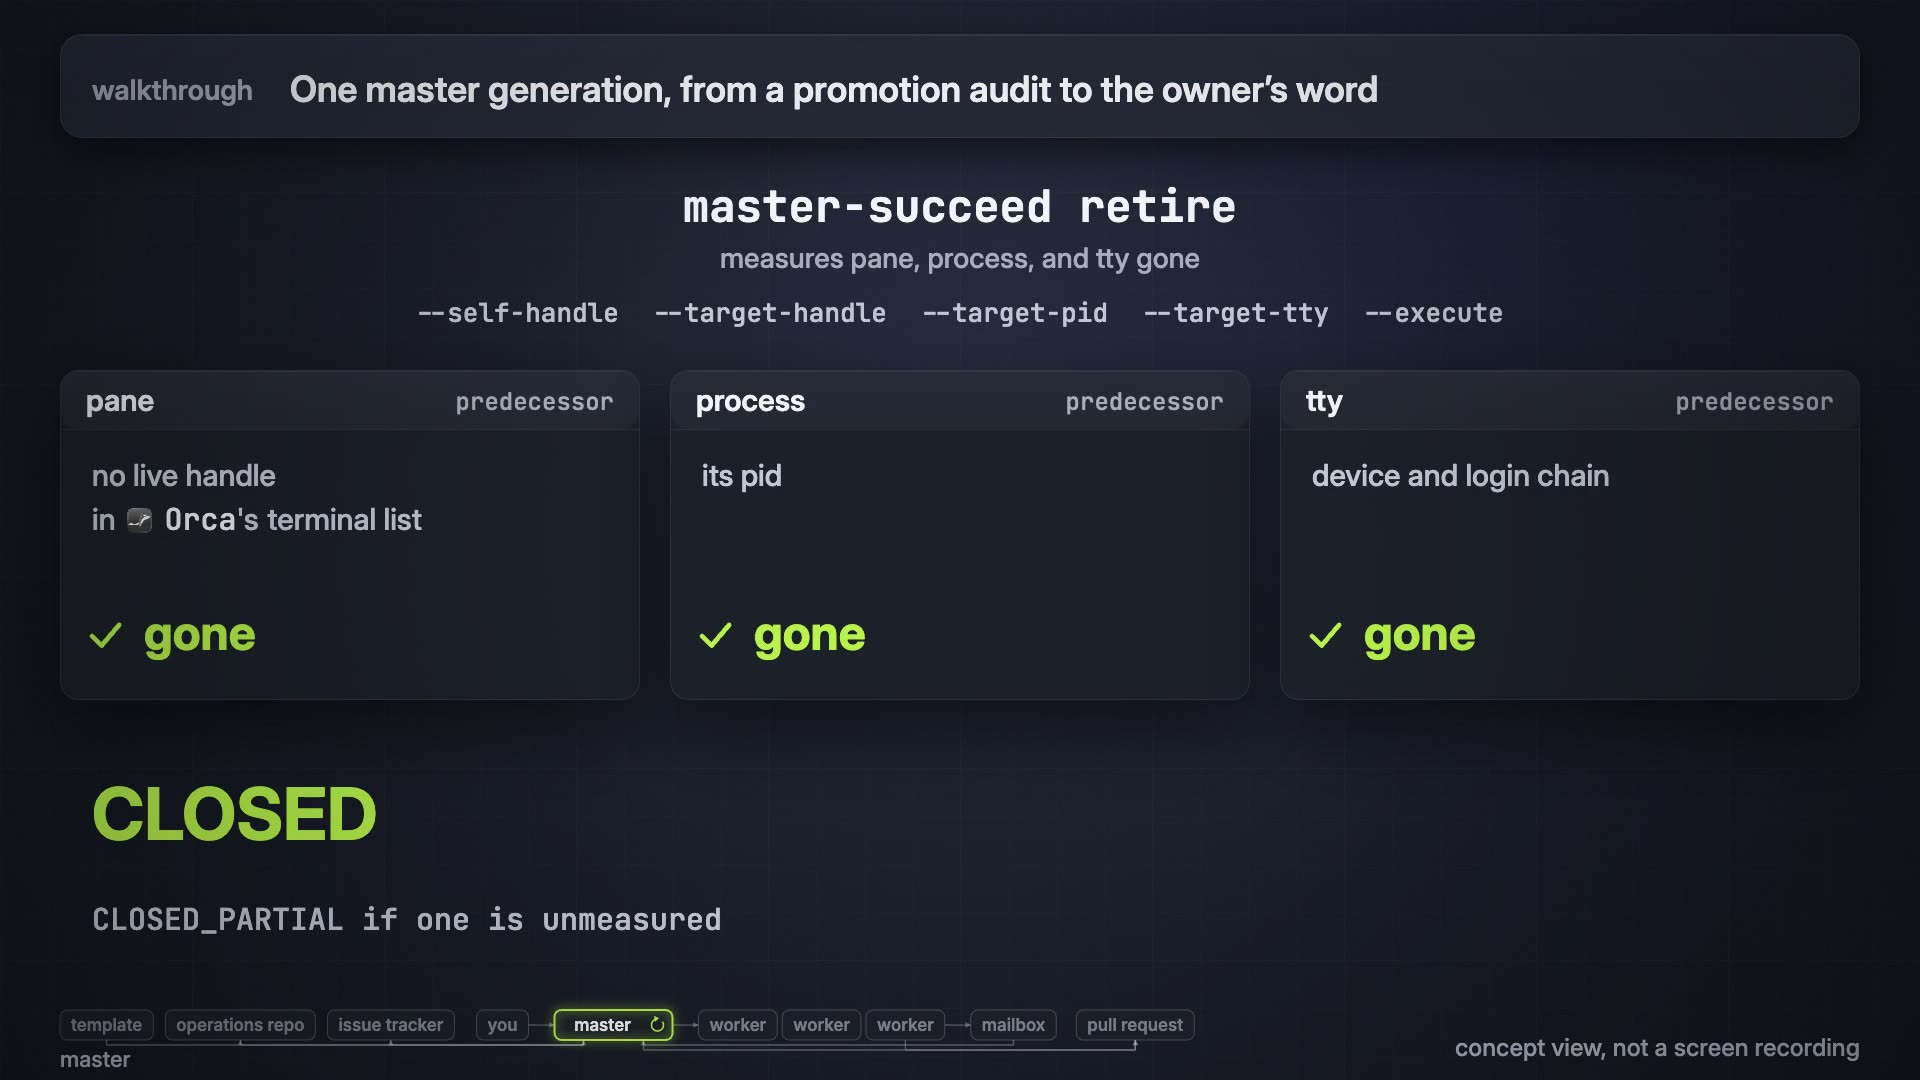
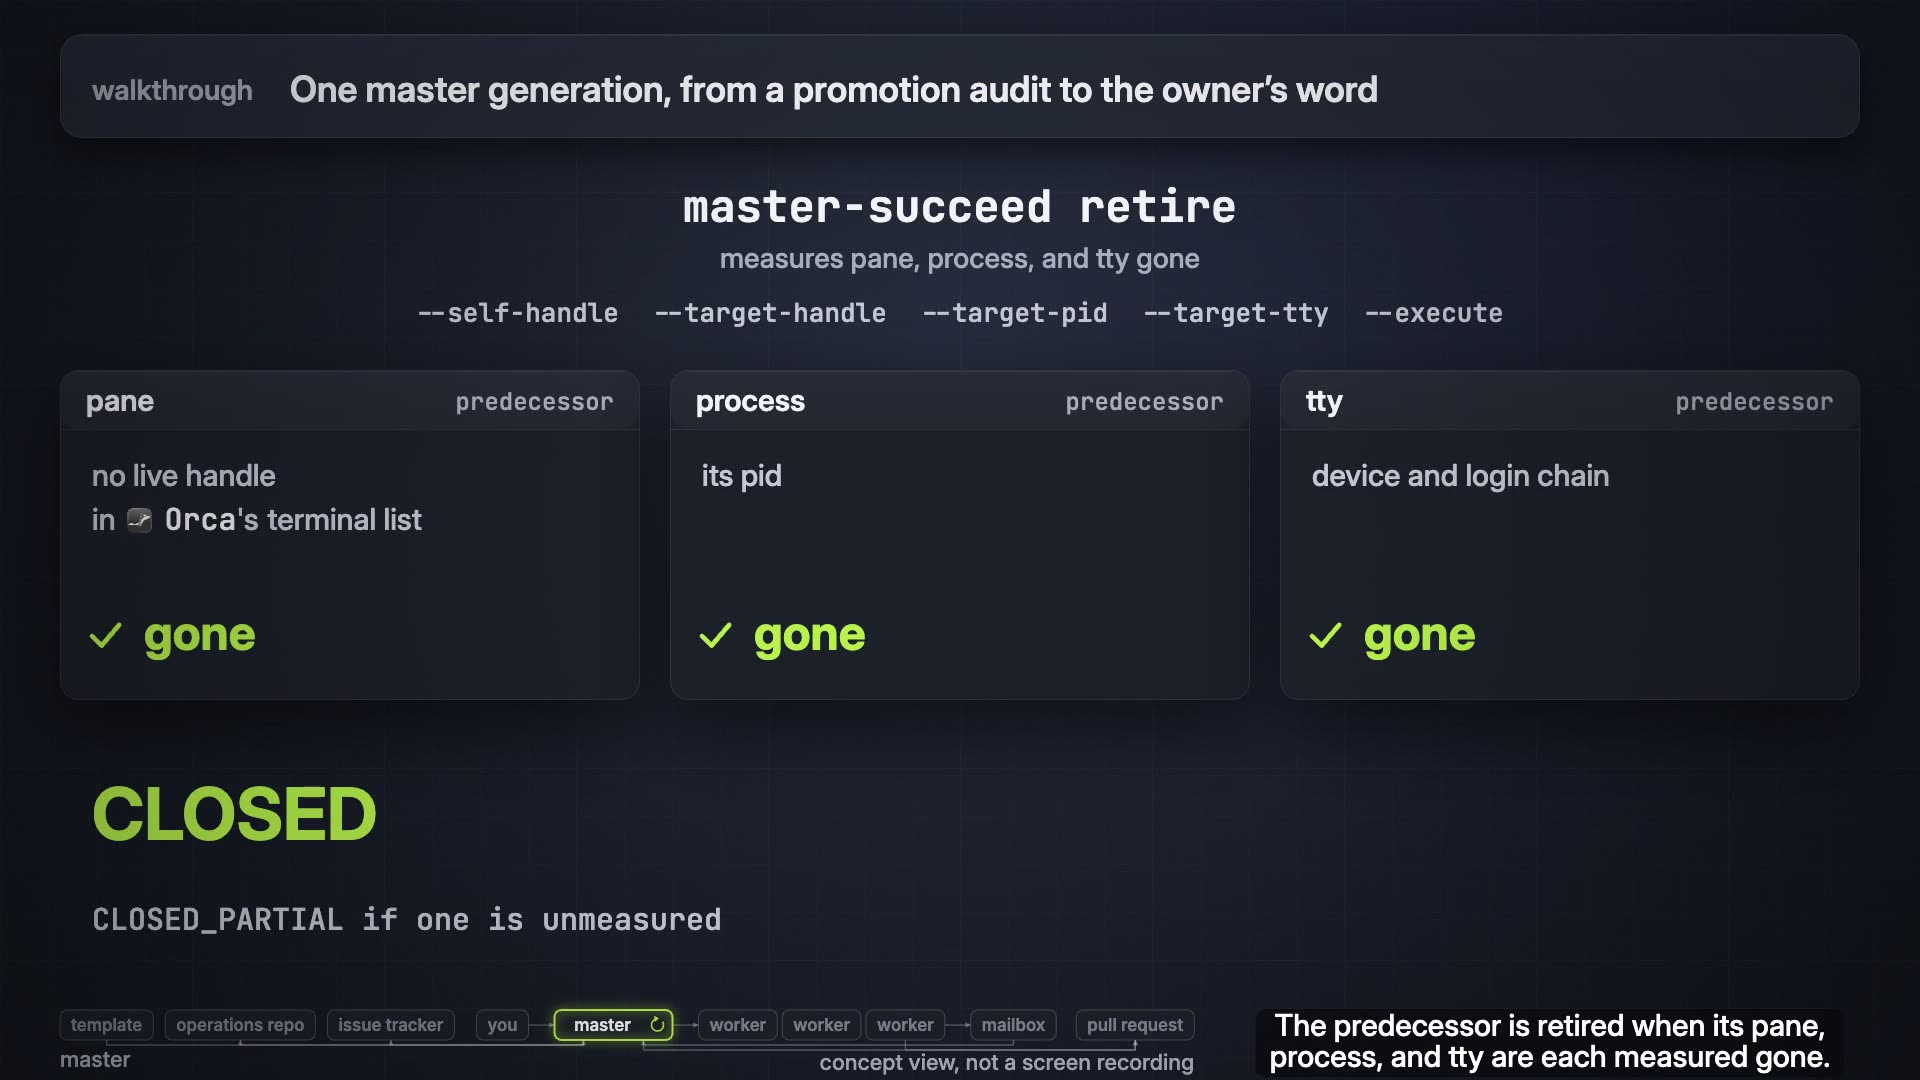
docs: the four films carry open captions and the audit's layout fixes

Changed region(s): [[0.6562, 0.9167, 0.9688, 1.0], [0.4375, 0.9778, 0.625, 1.0]]

diff --git a/README.md b/README.md
@@ -16,7 +16,7 @@ https://github.com/user-attachments/assets/52b4e776-8514-4b63-9f77-e04375e8a6ba
 
 <p align="center"><a href="https://github.com/baksohyeon/mogui-harness-explained/releases/tag/architecture-film-20261109"><img src="assets/architecture-poster.jpg" alt="the harness in one picture, every part lit: the owner, the master pane, three workers in their own checkouts, the Orca mailbox, the pull request, the operations repository, the issue tracker, and the template" width="100%"></a></p>
 
-https://github.com/user-attachments/assets/76386a94-9900-4a5a-93c0-16609d09c85c
+https://github.com/user-attachments/assets/657a1571-be9a-456d-a866-97d1bc85da1a
 
 To run what the film shows, install Orca, `git`, `gh`, `python3`, Beads (`bd`), a master CLI such as `claude`, and a worker CLI (`codex` or `cursor-agent`); Getting Started lists the remaining checks. Then clone [mogui-ADE-orchestrator](https://github.com/baksohyeon/mogui-ADE-orchestrator), open it in Orca, and say "Wake the master." The repository's own [quickstart](https://github.com/baksohyeon/mogui-ADE-orchestrator/tree/v0.5.294#quickstart) and [Getting Started](https://github.com/baksohyeon/mogui-ADE-orchestrator/blob/v0.5.294/docs/public/getting-started.md) take it from there. These pages explain what each part of the film does and where its tested code lives, at release [v0.5.294](https://github.com/baksohyeon/mogui-ADE-orchestrator/releases/tag/v0.5.294).
 

diff --git a/walkthroughs/01-one-dispatch.md b/walkthroughs/01-one-dispatch.md
@@ -8,7 +8,7 @@
 
 <p align="center"><sub>The player below shows in a web browser. In the GitHub mobile app, tap the picture; the release page has the film.</sub></p>
 
-https://github.com/user-attachments/assets/c5bf6c3e-26fd-49a9-ab16-000ae0c45c6b
+https://github.com/user-attachments/assets/6f4a39f1-db62-4b22-bf5a-0d2fe31a2f46
 
 Fifteen steps. The diagram below moves a ring from step to step; every label is readable with the animation off.
 

diff --git a/walkthroughs/02-one-master-generation.md b/walkthroughs/02-one-master-generation.md
@@ -8,7 +8,7 @@
 
 <p align="center"><sub>The player below shows in a web browser. In the GitHub mobile app, tap the picture; the release page has the film.</sub></p>
 
-https://github.com/user-attachments/assets/d7d2b834-7758-4484-bdf6-8d40ccf25b1e
+https://github.com/user-attachments/assets/8a4ea811-a905-4433-81f9-2b37bfbcb128
 
 Eleven steps, and the last one points back at the first.
 

diff --git a/walkthroughs/03-one-template-upgrade.md b/walkthroughs/03-one-template-upgrade.md
@@ -8,7 +8,7 @@
 
 <p align="center"><sub>The player below shows in a web browser. In the GitHub mobile app, tap the picture; the release page has the film.</sub></p>
 
-https://github.com/user-attachments/assets/fcba9389-34a8-4b3a-8ffd-a55818dc7236
+https://github.com/user-attachments/assets/605dd8a3-c7c1-4f2b-805e-4ef6a5328ad9
 
 Twelve steps.
 
